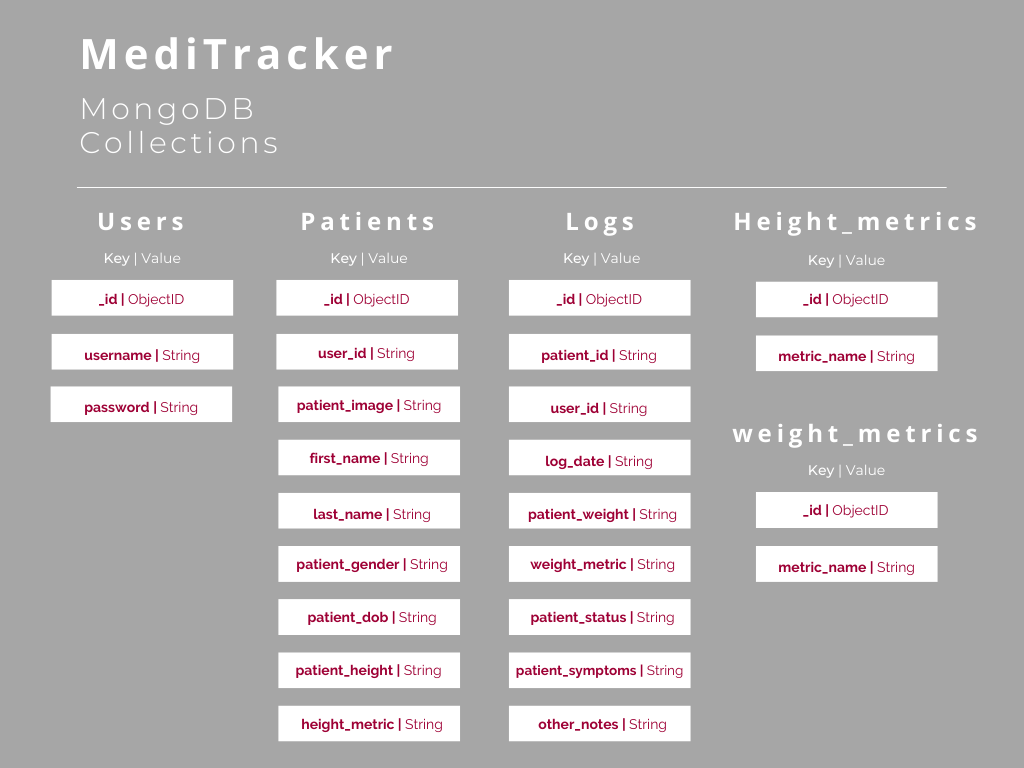
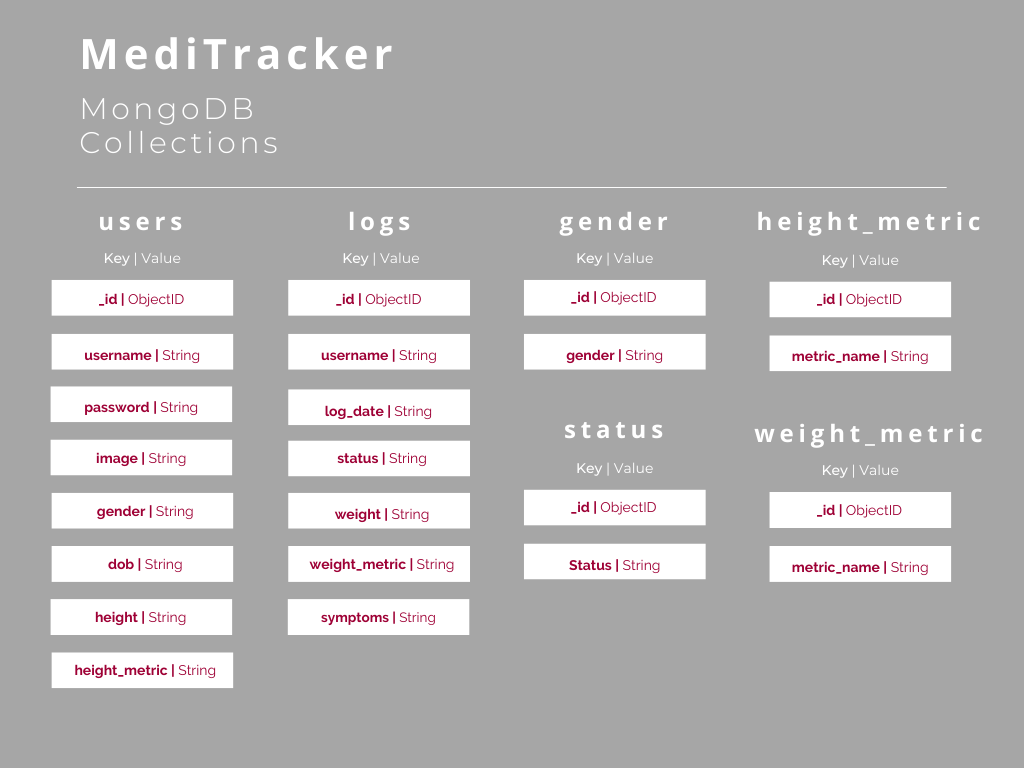
Update MongoDB image in README to reflect recent changes

diff --git a/README.md b/README.md
@@ -143,11 +143,11 @@ Desktop Mockups |
 
 ### Database Structure
 
-MongoDB was used to set up the database for MediTracker. I used [Canva](www.canva.com) to illustrate the collections, along with their documents, in the image below:
+MongoDB was used to set up the database for MediTracker. The database consists of six collections: users, logs, gender, status, height_metric and weight_metric.
+
+I used [Canva](www.canva.com) to illustrate the collections, along with their documents, in the image below:
 
 <img src="wireframes/meditracker-database.png" alt="MediTracker MongoDB Collections">
-
-**Please note**, on further development of this project a decision was made to merge the 'Users' and 'Patients' collections into one as their data was related and made more sense to store under one collection.
 
 ### Sitemap
 
